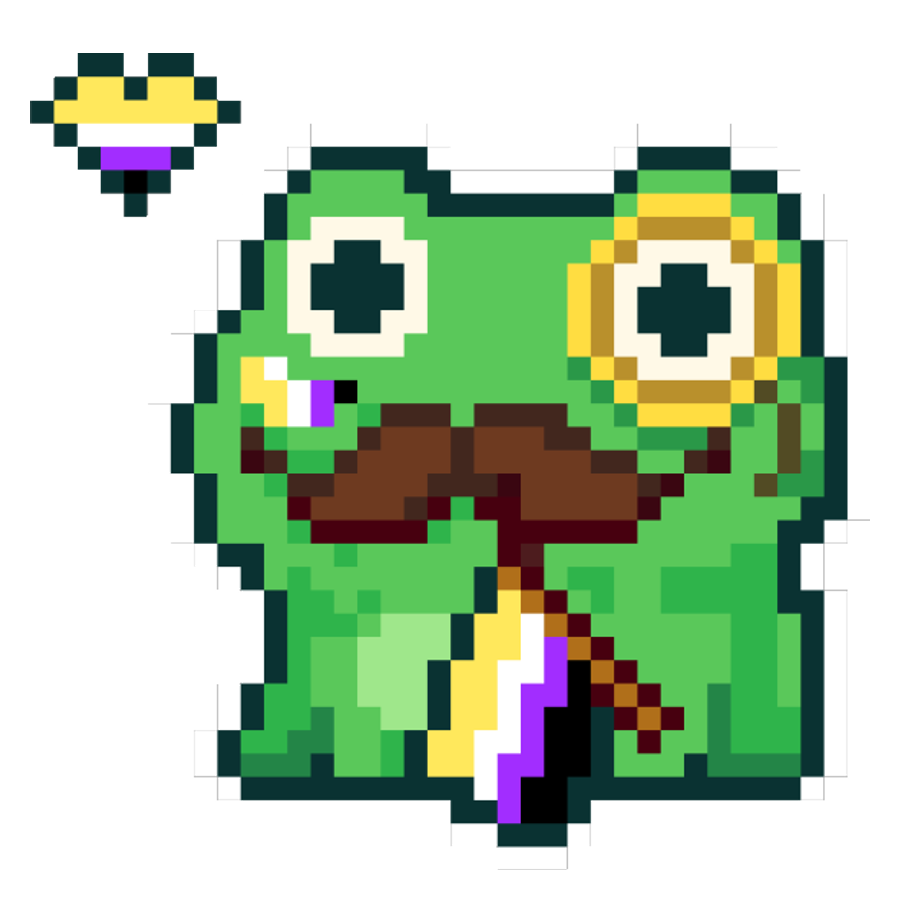
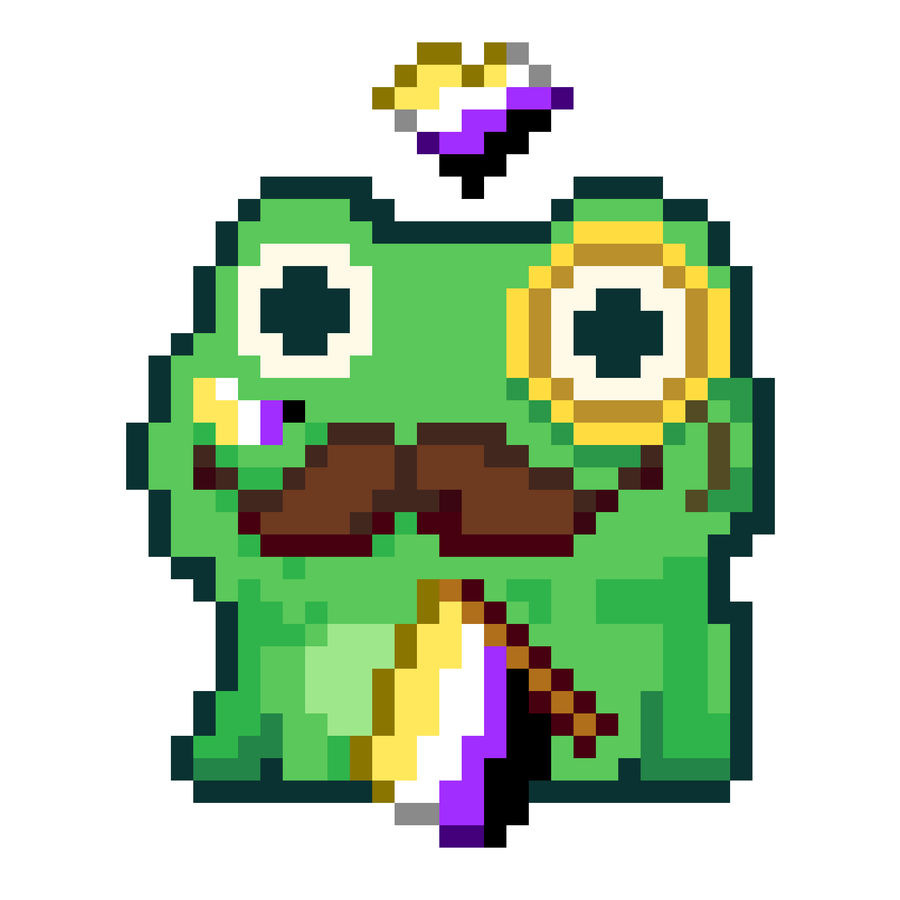
Expand pride flag collection and add hero easter eggs
- Add Transgender, Pansexual, Aroace, and Demiboy Rivet variants,
  and re-export Nonbinary from a lossless source to drop compression
  noise around its edges.
- Hovering/tapping the hero Rivet 30 times within 30 seconds
  activates a secret mode: pronouns randomize, the hero switches to
  a random pride variant, and the full pride collection reveals.
  Changing any pronoun afterward exits the mode and reverts the
  hero image.
- Every 3rd tap on the hero shows a random one-line phrase in a
  speech bubble (13 phrases, no em dashes).
- 100 clicks within 60 seconds makes Rivet spin once.
- Hero image no longer shows a pointer cursor on hover.

diff --git a/src/styles/global.css b/src/styles/global.css
@@ -147,3 +147,13 @@
 	color: var(--color-legacy-gold);
 }
 
+/* One-shot spin for the Rivet hero image easter egg. */
+@keyframes rivet-spin {
+	from { transform: rotate(0deg); }
+	to { transform: rotate(360deg); }
+}
+
+.spin-once {
+	animation: rivet-spin 0.6s ease-in-out;
+}
+
